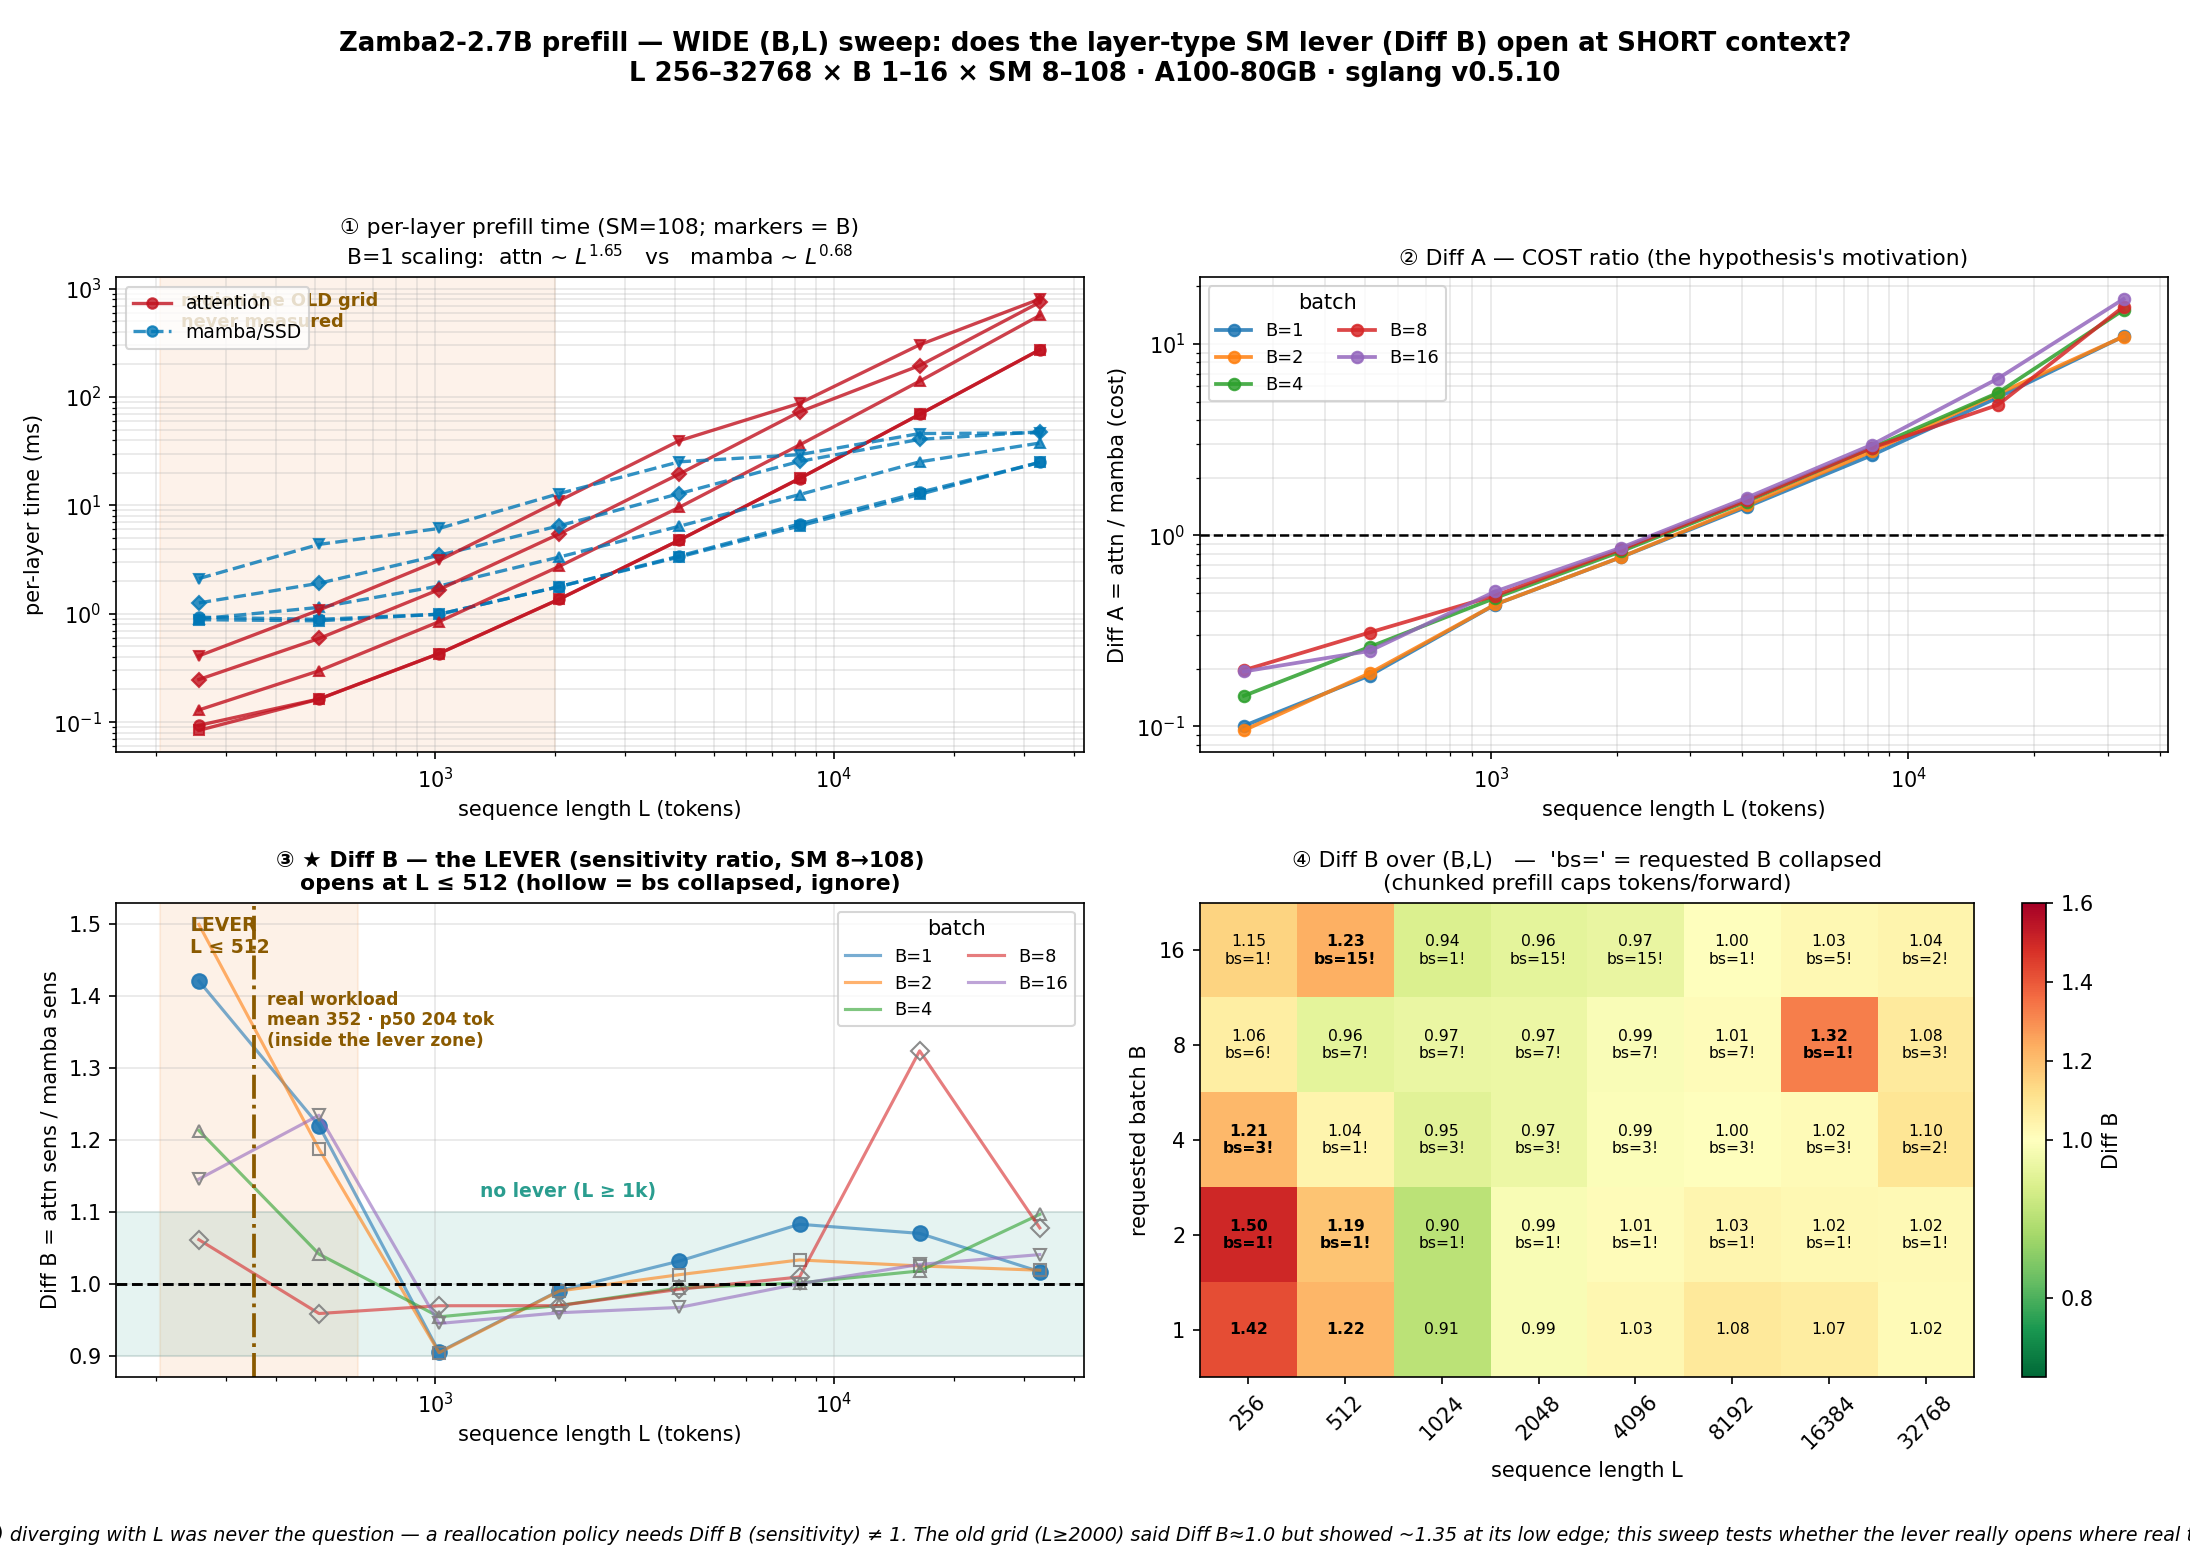
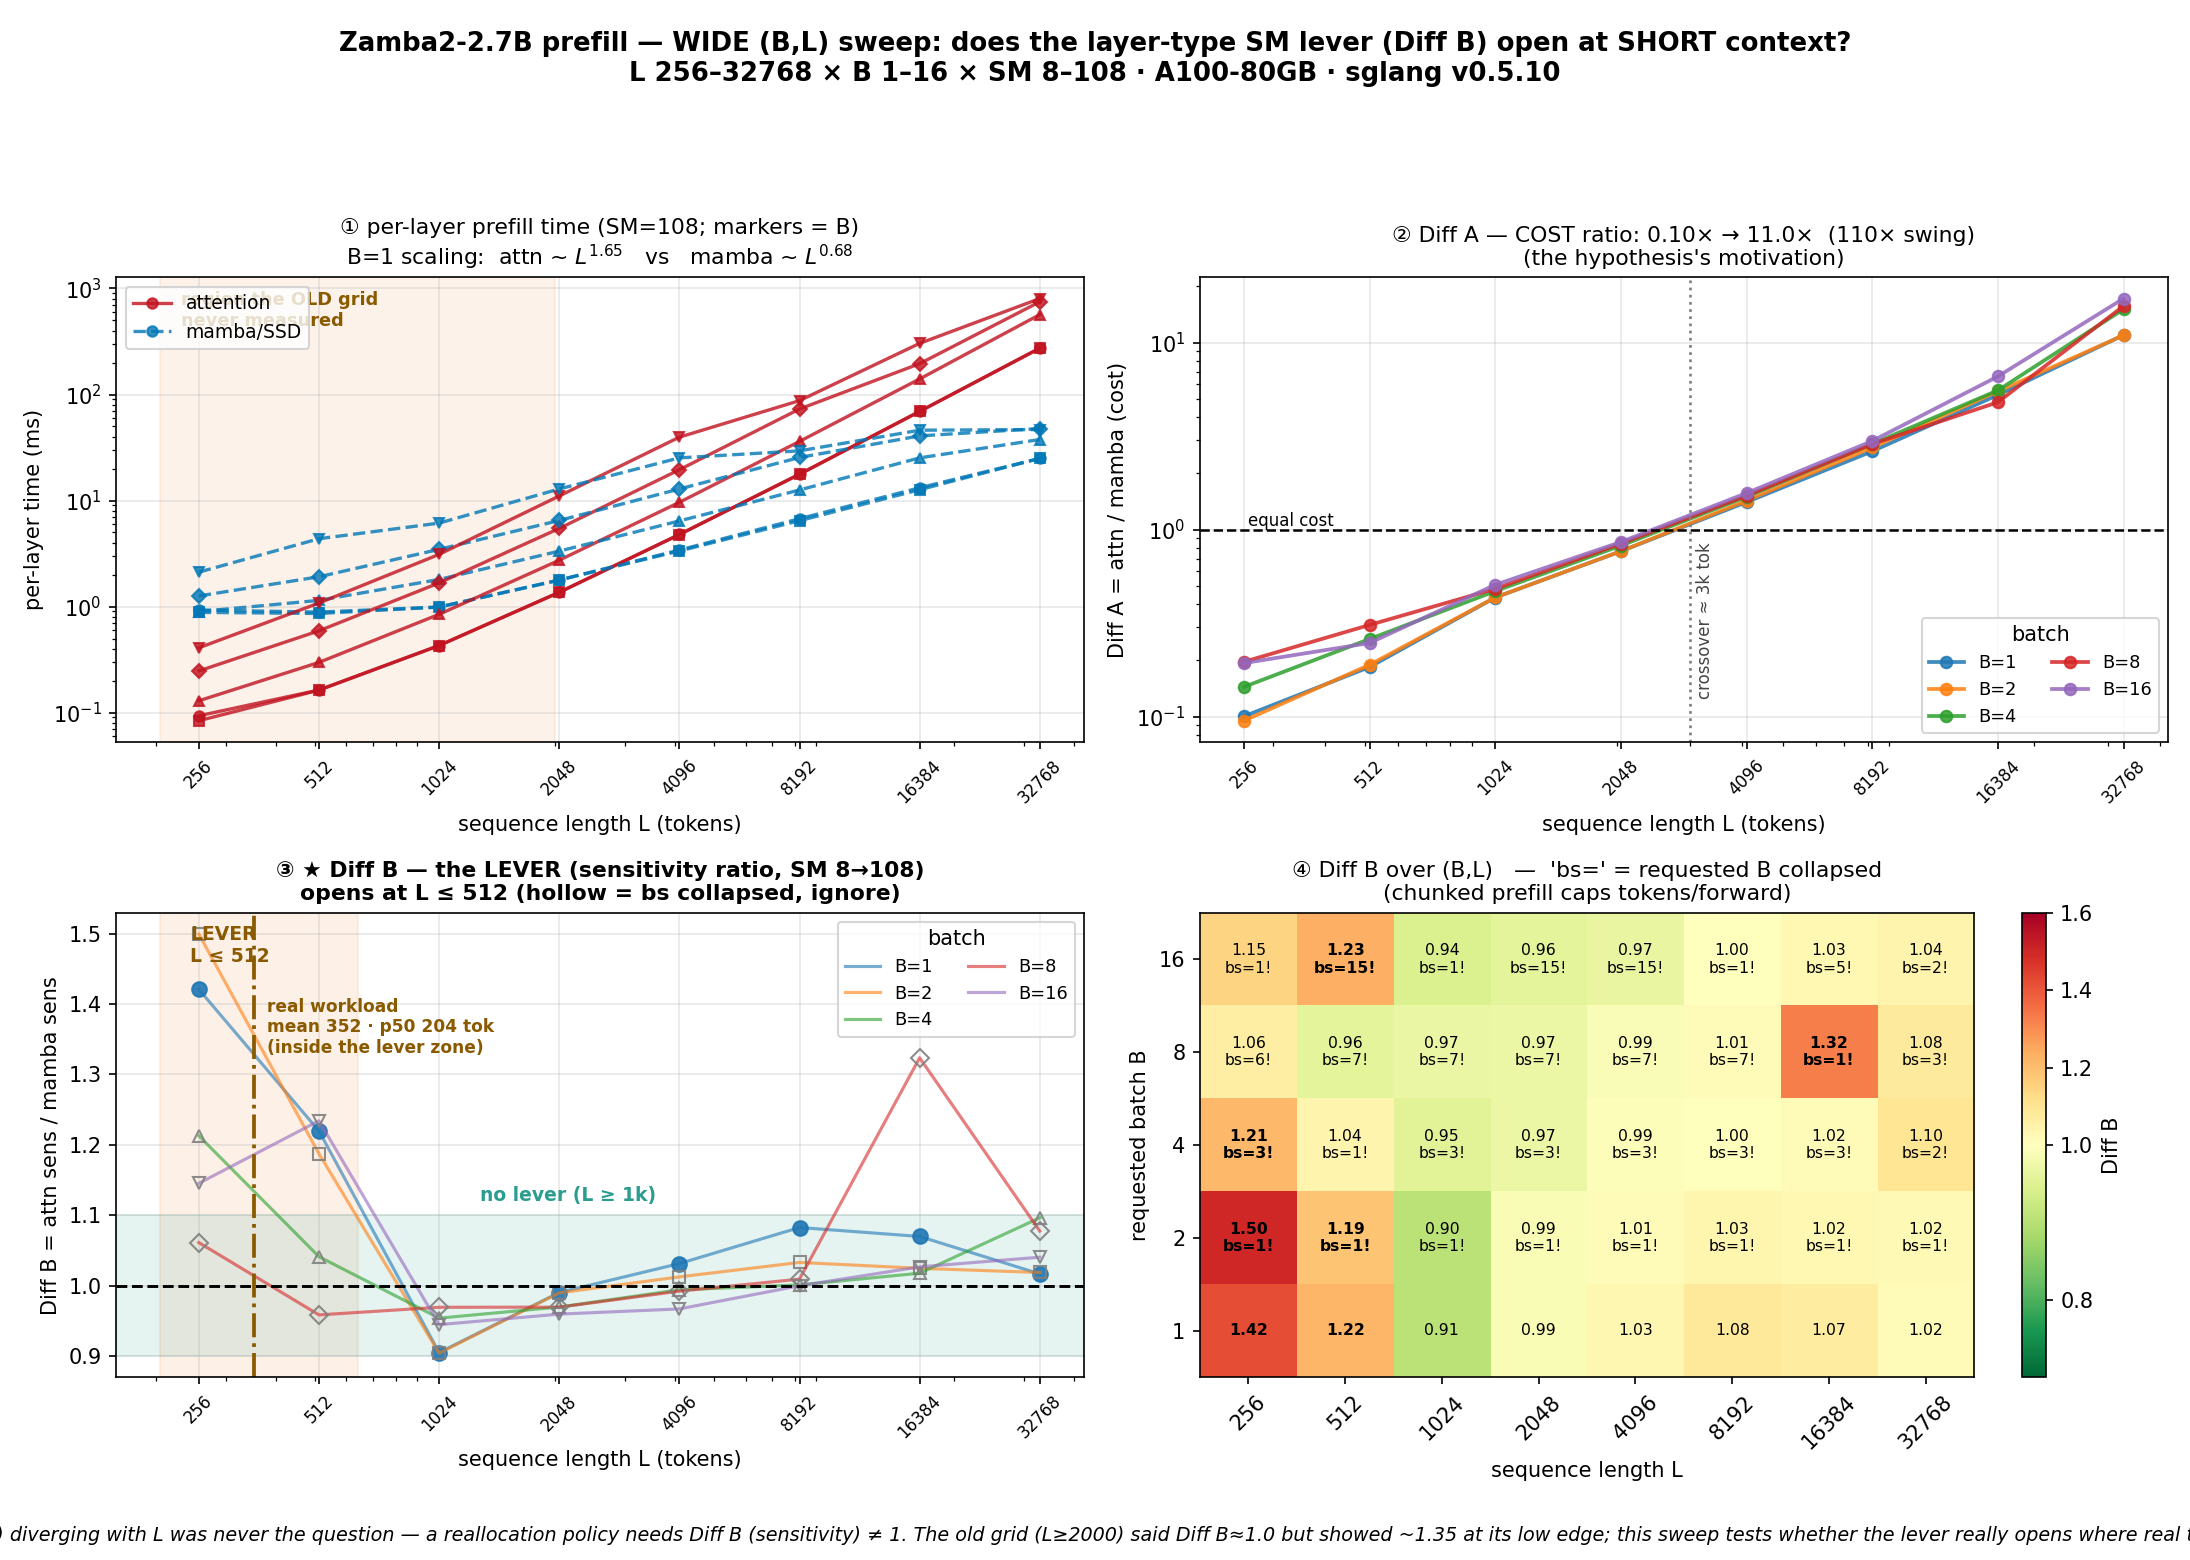
plot(knee2d_wide): x축에 전 L 마커 표시(①②③), Diff A 진폭 110x(0.10->11.0) 명시

diff --git a/workspace/engine-port/results/prefill_knee/analyze_knee2d_wide.py b/workspace/engine-port/results/prefill_knee/analyze_knee2d_wide.py
@@ -97,19 +97,27 @@ if len(xs1) > 1:
     a.set_title(f"① per-layer prefill time (SM=108; markers = B)\nB=1 scaling:  attn ~ $L^{{{ka:.2f}}}$   vs   mamba ~ $L^{{{km:.2f}}}$", fontsize=10.5)
 a.axvspan(min(Ls)*0.8, 2000, color=C_WARN, alpha=.13)
 a.text(min(Ls)*0.9, a.get_ylim()[1]*0.35, "region the OLD grid\nnever measured", fontsize=8.5, color="#8a5a00", fontweight="bold")
+a.set_xticks(Ls); a.set_xticklabels([str(L) for L in Ls], rotation=45, fontsize=8)
+a.get_xaxis().set_minor_formatter(plt.NullFormatter())
 a.set_xlabel("sequence length L (tokens)"); a.set_ylabel("per-layer time (ms)")
-a.grid(alpha=.3, which="both"); a.legend(fontsize=9, loc="upper left")
+a.grid(alpha=.3, which="major"); a.legend(fontsize=9, loc="upper left")
 
-# ② Diff A vs L
+# ② Diff A vs L  (every L marked on the x-axis, per user request)
 a = ax[0][1]
 for B in Bs:
     xs = [L for L in Ls if diffA(L, B)]
     if xs: a.plot(xs, [diffA(L, B) for L in xs], "o-", lw=1.8, ms=5.5, alpha=.85, label=f"B={B}")
 a.axhline(1.0, color="k", ls="--", lw=1.2)
+a.text(Ls[0]*1.02, 1.05, "equal cost", fontsize=8)
+a.axvline(3000, color="gray", ls=":", lw=1.3)
+a.annotate("crossover ≈ 3k tok", (3000, 0.13), fontsize=8, color="#444", rotation=90,
+           textcoords="offset points", xytext=(3, 0))
 a.set_xscale("log"); a.set_yscale("log")
+a.set_xticks(Ls); a.set_xticklabels([str(L) for L in Ls], rotation=45, fontsize=8)
+a.get_xaxis().set_minor_formatter(plt.NullFormatter())
 a.set_xlabel("sequence length L (tokens)"); a.set_ylabel("Diff A = attn / mamba (cost)")
-a.set_title("② Diff A — COST ratio (the hypothesis's motivation)", fontsize=10.5)
-a.grid(alpha=.3, which="both"); a.legend(fontsize=8.5, title="batch", ncol=2)
+a.set_title("② Diff A — COST ratio: 0.10× → 11.0×  (110× swing)\n(the hypothesis's motivation)", fontsize=10.5)
+a.grid(alpha=.3, which="major"); a.legend(fontsize=8.5, title="batch", ncol=2, loc="lower right")
 
 # ③ Diff B vs L — THE QUESTION. Hollow marker = requested B collapsed (bs<B): noisy, ignore.
 a = ax[1][0]
@@ -132,6 +140,8 @@ a.axvline(SG_MEAN, color="#8a5a00", ls="-.", lw=1.8)
 a.annotate(f"real workload\nmean {SG_MEAN} · p50 {SG_P50} tok\n(inside the lever zone)", (SG_MEAN, 1.33), fontsize=8.2,
            color="#8a5a00", fontweight="bold", textcoords="offset points", xytext=(6, 0))
 a.set_xscale("log")
+a.set_xticks(Ls); a.set_xticklabels([str(L) for L in Ls], rotation=45, fontsize=8)
+a.get_xaxis().set_minor_formatter(plt.NullFormatter())
 a.set_xlabel("sequence length L (tokens)"); a.set_ylabel("Diff B = attn sens / mamba sens")
 a.set_title(f"③ ★ Diff B — the LEVER (sensitivity ratio, SM {lowSM}→108)\nopens at L ≤ 512 (hollow = bs collapsed, ignore)", fontsize=10.5, fontweight="bold")
 a.grid(alpha=.3); a.legend(fontsize=8.5, title="batch", ncol=2, loc="upper right")
